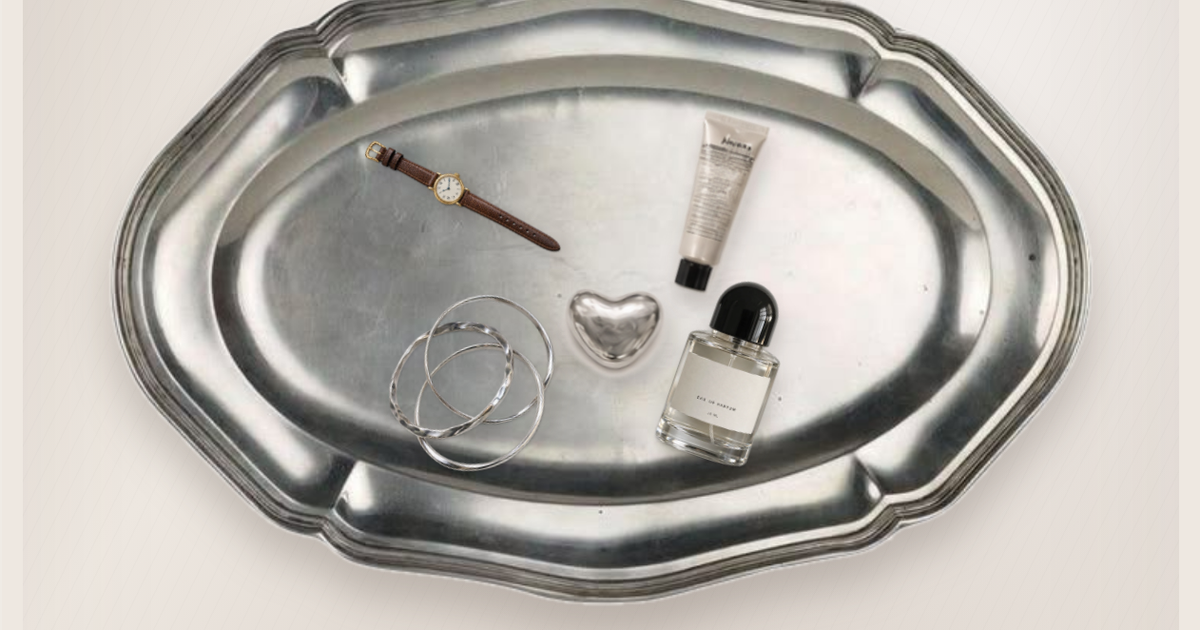
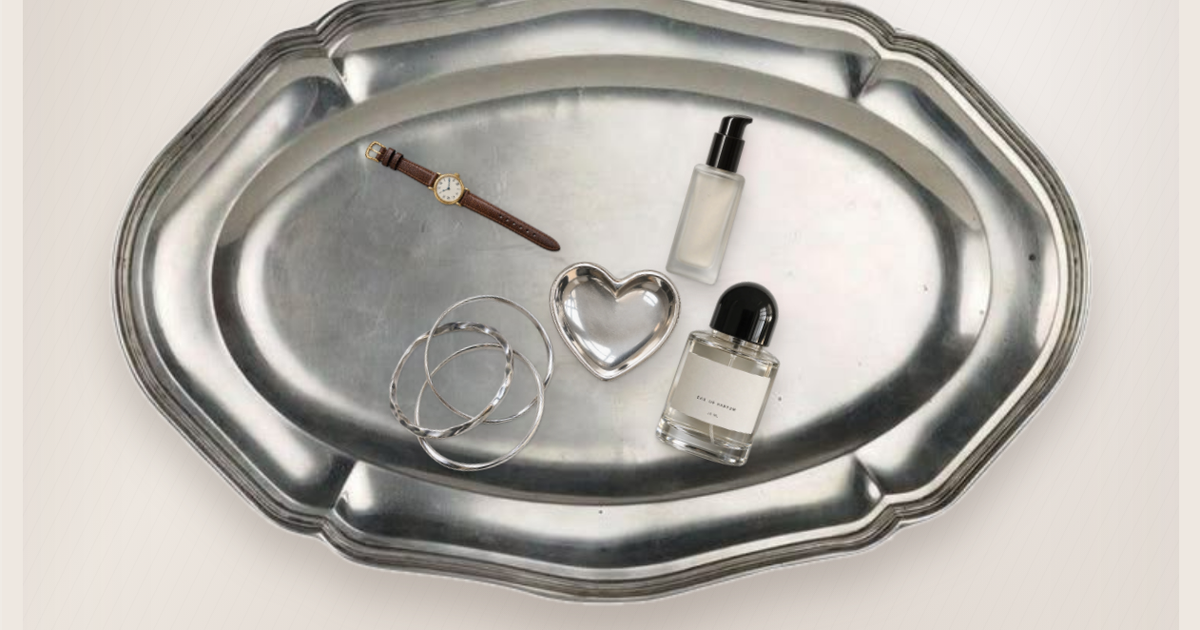
트레이: 나머지 소품도 고화질로 교체, 립스틱·실버 콤팩트 추가 (20종)
- 폴라로이드·하트·진주 팔찌·리본·안개꽃·메모·키링 교체, 핸드크림 자리는 세럼 보틀로
- PC 소품 목록이 넘칠 때 칸이 눌리지 않고 스크롤되게
- 홈 카드 문구·썸네일·공유 이미지 갱신

Claude-Session: https://claude.ai/code/session_012CHPn3AaqMJeSXUsY53T5G

Changed region(s): [[0.4625, 0.181, 0.6475, 0.6032]]

diff --git a/tray/index.html b/tray/index.html
@@ -18,7 +18,7 @@
  <div class="workspace-bottom"><div class="workspace-caption">a collection of little things, made by you ♡</div><div class="edit-rail"><button class="tool-btn" id="duplicateBtn" title="선택 소품 복제">▣ <span>복제</span></button><button class="tool-btn" id="flipBtn" title="좌우 반전">⇆ <span>반전</span></button><button class="tool-btn" id="forwardBtn" title="선택 소품 앞으로">↑ <span>앞으로</span></button><button class="tool-btn" id="backwardBtn" title="선택 소품 뒤로">↓ <span>뒤로</span></button><button class="tool-btn danger" id="deleteBtn" title="선택 소품 삭제">✕ <span>삭제</span></button><button class="tool-btn" id="clearBtn" title="모든 소품 비우기">↻ <span>비우기</span></button></div></div>
 </main>
 <aside class="right-pane">
- <div class="right-header"><h2>소품 보관함 <span style="font-weight:400;color:#a39288">✳</span></h2><small>18 little things</small></div>
+ <div class="right-header"><h2>소품 보관함 <span style="font-weight:400;color:#a39288">✳</span></h2><small>20 little things</small></div>
  <div class="mobile-tray-pick" id="mobileTrays"></div><div class="mobile-props-panel">소품을 골라보세요 <span style="font-weight:400;color:#afa198">· 탭해서 추가</span></div>
  <div class="cat-list" id="categories"></div><div class="props-list" id="propsList"></div>
  <div class="props-bottom"><div class="adjust-panel" id="adjustPanel"><div class="property-title"><span id="selectedName">선택한 소품 없음</span><small>Tap · Drag · Adjust</small></div>

diff --git a/tray/app.js b/tray/app.js
@@ -1,16 +1,15 @@
 (()=>{
 'use strict';
 const A='assets/';
-// 고화질로 바꾼 소품 (1110×1200 투명 WebP). 나머지는 아직 예전 PNG
-const HQ=new Set(['perfume','soap','glasses','earbuds','film','candle','foil','watch','rings','letter']);
+// 소품은 모두 고화질 1110×1200 투명 WebP
 const props=[
  ['perfume','향수','뷰티'],['soap','빈티지 비누','라이프'],['glasses','블랙 안경','소품'],
  ['earbuds','유선 이어폰','소품'],['film','필름 포토','사진'],['polaroid','폴라로이드','사진'],
- ['candle','유리 캔들','라이프'],['cream','핸드크림','뷰티'],['foil','실버 튜브','뷰티'],
+ ['candle','유리 캔들','라이프'],['cream','세럼 보틀','뷰티'],['lipstick','립스틱','뷰티'],['compact','실버 콤팩트','뷰티'],['foil','실버 튜브','뷰티'],
  ['watch','가죽 시계','소품'],['rings','실버 반지','소품'],['heart','실버 하트','소품'],
  ['keyring','빈티지 키링','소품'],['letter','봉인 편지','사진'],['flowers','안개꽃','라이프'],
  ['pearls','진주 팔찌','소품'],['bow','새틴 리본','라이프'],['note','손글씨 메모','사진']
-].map(([id,label,cat])=>({id,label,cat,src:A+id+(HQ.has(id)?'.webp':'.png')}));
+].map(([id,label,cat])=>({id,label,cat,src:A+id+'.webp'}));
 const trays=[{id:1,name:'사각 트레이',desc:'simple & classic',src:A+'tray1.png'},
 {id:2,name:'로코코 트레이',desc:'ornate & romantic',src:A+'tray2.png'},
 {id:3,name:'빈티지 트레이',desc:'soft & antique',src:A+'tray3.png'}];

diff --git a/index.html b/index.html
@@ -141,7 +141,7 @@
           <a class="svc-shot" href="/tray/"><img src="/tray/preview.webp" alt="빈티지 은 트레이 위에 시계, 핸드크림, 반지, 하트 오브제, 향수를 올려 둔 스틸 라이프" width="800" height="600" loading="lazy"><span>트레이 꾸미러 가기</span></a>
           <p>조금씩 모아 둔 나의 취향을 은빛 트레이 위에 담아 보세요. 향수, 시계, 반지, 필름 사진 같은 소품을 올려 사진처럼 꾸미고 이미지로 저장해요.</p>
           <ul>
-            <li>트레이 3종과 소품 18종, 내 사진도 올릴 수 있어요</li>
+            <li>트레이 3종과 소품 20종, 내 사진도 올릴 수 있어요</li>
             <li>끌어서 옮기고 크기와 각도를 자유롭게 바꿔요</li>
             <li>완성한 트레이는 이미지로 저장하거나 링크로 공유해요</li>
           </ul>

diff --git a/tray/style.css b/tray/style.css
@@ -20,3 +20,5 @@
 /* 폰 트레이 고르기 줄: 세 칸을 같은 폭으로 꽉 채우기 */
 @media(max-width:860px){.mobile-tray-pick .tray-meta{min-width:0}.mobile-tray-pick .tray-meta b{overflow:hidden;text-overflow:ellipsis}}
 @media(max-width:400px){.mobile-tray-pick .tray-option{padding:4px 5px}.mobile-tray-pick .tray-thumb{width:34px;height:42px}}
+/* 소품 20종: PC 오른쪽 목록이 넘치면 칸이 눌리지 않고 스크롤되게 */
+@media(min-width:861px){.props-list{grid-auto-rows:max-content}.props-list .prop-item{aspect-ratio:1;height:auto}}

diff --git a/README.md b/README.md
@@ -105,7 +105,7 @@
 - 이나님이 따로 만든 앱(ZIP)을 **디자인 그대로** `/tray/`에 넣음. 처음엔 별도 저장소·Vercel로 하려다 무드나잇 콘텐츠로 바꿈
 - 배포 전 고친 버그: 큰 사진 업로드 시 자동 저장 멈춤(사진을 긴 변 1000px로 줄임), 내 사진 비율 찌그러짐, 공유 링크로 연 뒤 새로고침하면 고친 내용 사라짐, 좁은 폰에서 버튼 글자 끊김
 - 무드나잇 연결: `<base href="/tray/">`(슬래시 없이 와도 이미지 경로 유지), og 태그, 왼쪽 아래 "← 무드나잇", track.js(page `tray`, 저장 act `tray_save`, 공유 share `tray`)
-- 11/10 소품 10종을 고화질로 교체(GPT 제작, 1110×1200 투명 WebP, `app.js`의 `HQ` 목록): 향수·비누·안경·이어폰·필름·캔들·실버 튜브·시계·뱅글(rings)·편지. 라벨은 브랜드 없는 가상 제품. 남은 8종(폴라로이드·핸드크림·하트·키링·안개꽃·진주·리본·메모)은 아직 약 122×133px PNG. 고화질 교체 기준은 배포용 ZIP(silver-tray-studio.zip) 안 `ASSETS.md`. 일부 소품에 실제 브랜드 라벨이 보여 다음 에셋은 라벨 없는 가상 제품으로
+- 11/10 소품 전부 고화질로 교체(GPT 제작, 1110×1200 투명 WebP, 브랜드 라벨 없음). 핸드크림 자리는 세럼 보틀로 바뀌고 립스틱·실버 콤팩트 추가해 **20종**. 트레이 3장은 아직 예전 PNG(사각 트레이 가장자리가 살짝 거침)
 
 ## 출시 일정 (2026-11-06 결정)
 
